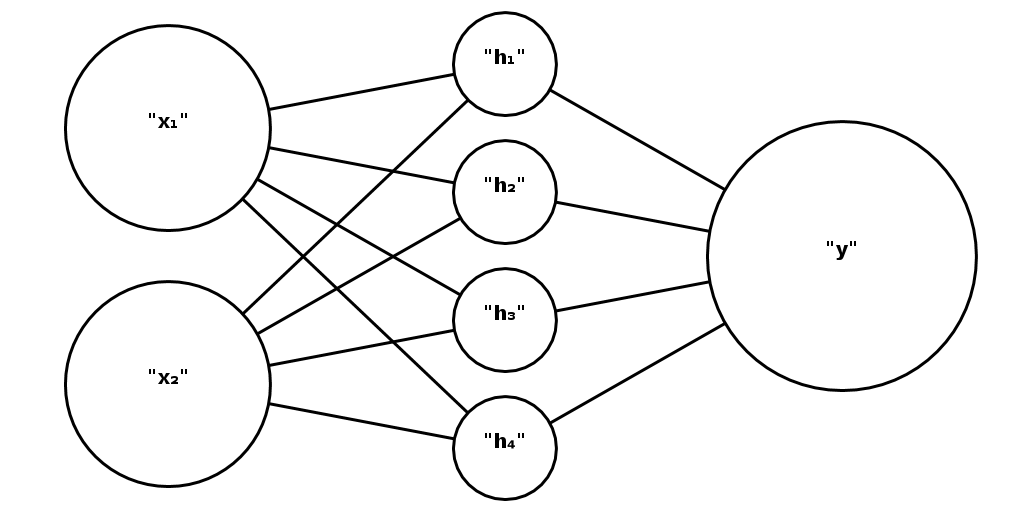
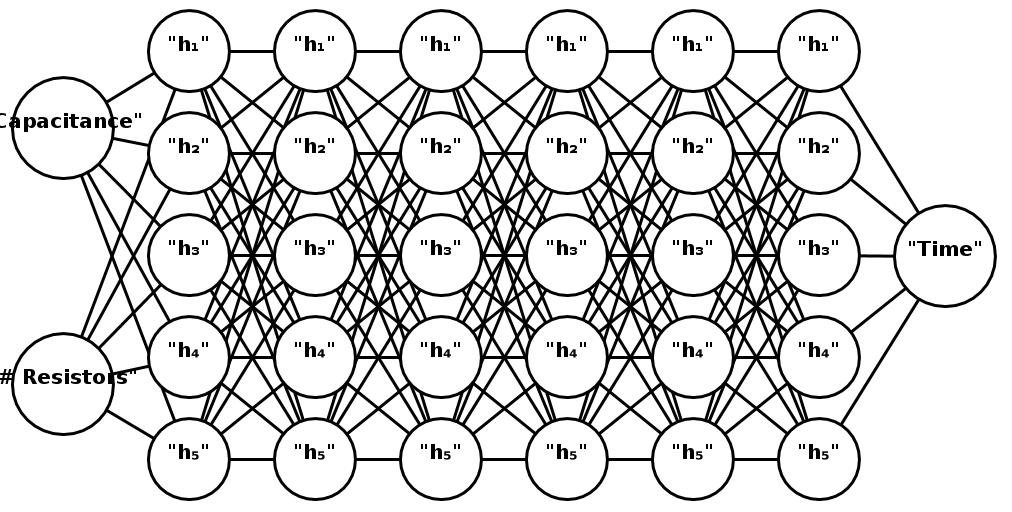
Revisions.

diff --git a/network-visualizer/src/com/finnbear/nnvisualizer/Main.java b/network-visualizer/src/com/finnbear/nnvisualizer/Main.java
@@ -34,10 +34,13 @@ public class Main extends JFrame {
 		super("Neural Network Visualizer");
 		
 		layers = new ArrayList<Neuron[]>();
-		
-		layers.add(new Neuron[] {new Neuron("x₁", null), new Neuron("x₂", null)});
-		layers.add(new Neuron[] {new Neuron("h₁", null), new Neuron("h₂", null), new Neuron("h₃", null), new Neuron("h₄", null)});
-		layers.add(new Neuron[] {new Neuron("y", null)});
+
+		layers.add(new Neuron[] {new Neuron("Capacitance", null), new Neuron("# Resistors", null)});
+		//layers.add(new Neuron[] {new Neuron("x₁", null), new Neuron("x₂", null)});
+		layers.add(new Neuron[] {new Neuron("h₁", null), new Neuron("h₂", null), new Neuron("h₃", null), new Neuron("h₄", null), new Neuron("h₅", null)});
+		layers.add(new Neuron[] {new Neuron("h₁", null), new Neuron("h₂", null), new Neuron("h₃", null), new Neuron("h₄", null), new Neuron("h₅", null)});
+		layers.add(new Neuron[] {new Neuron("h₁", null), new Neuron("h₂", null), new Neuron("h₃", null), new Neuron("h₄", null), new Neuron("h₅", null)});
+		layers.add(new Neuron[] {new Neuron("Time", null)});
 		
 		int width = 1000;
 		int height = 500;

diff --git a/automatic-version/main.py b/automatic-version/main.py
@@ -1,3 +1,4 @@
+# Rewritten using KERAS for maximum simplicity
 import csv
 import numpy
 from keras.models import Sequential
@@ -22,7 +23,7 @@ print x
 model = Sequential()
 model.add(Dense(2, activation='tanh', input_dim=2))
 model.add(Dense(5, activation='tanh'))
-model.add(Dense(10, activation='tanh'))
+model.add(Dense(5, activation='tanh'))
 model.add(Dense(5, activation='tanh'))
 model.add(Dense(1, activation='linear'))
 
